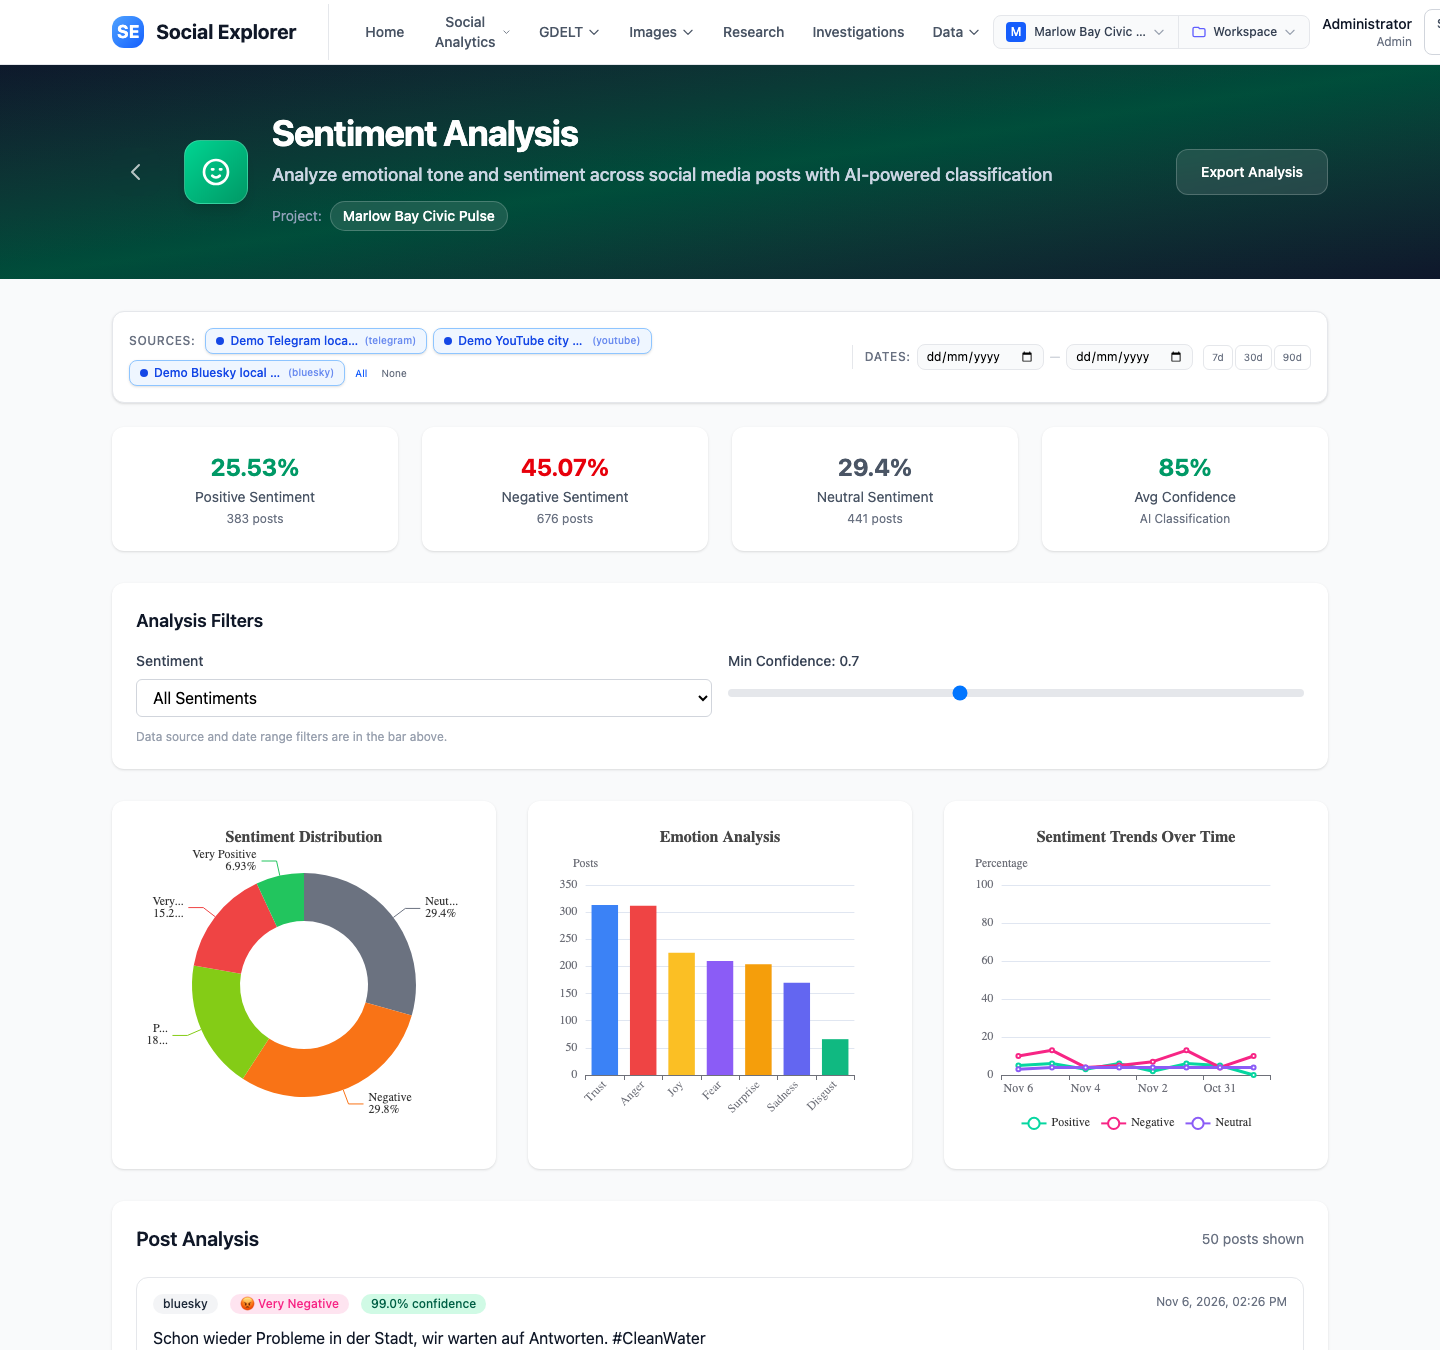
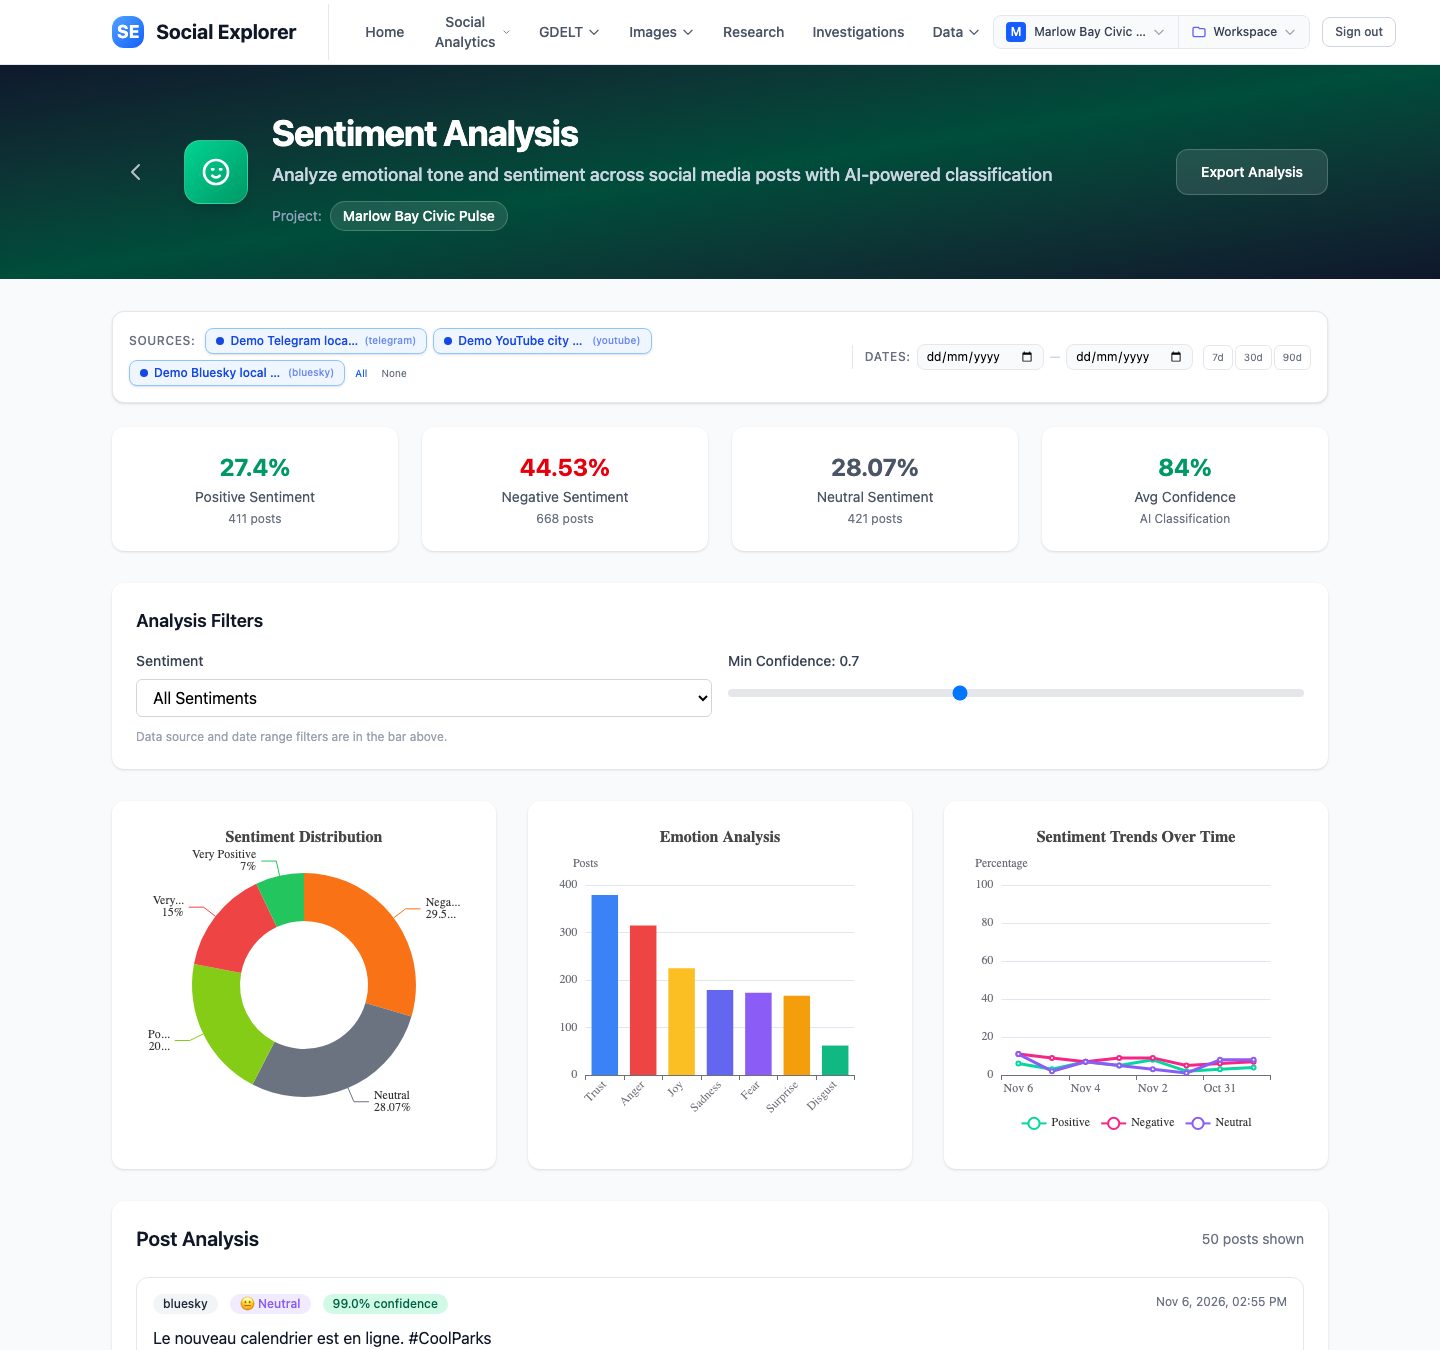
docs: add engagement, language and hashtag screenshots and mixed-language demo data
Refs #86 #63

diff --git a/ex-accell-ui/src/lib/server/demo/generateDemoData.ts b/ex-accell-ui/src/lib/server/demo/generateDemoData.ts
@@ -34,10 +34,18 @@ function topicWeight(topic: DemoTopic, day: number, days: number): number {
   return 1;
 }
 
+/** Most posts carry one hashtag; some carry two, so co-occurrence has something to show. */
+function hashtagSuffix(rng: Rng, topic: DemoTopic): string {
+  if (!rng.chance(0.6)) return '';
+  const first = rng.pick(topic.hashtags);
+  const others = topic.hashtags.filter((tag) => tag !== first);
+  return rng.chance(0.4) && others.length > 0 ? ` ${first} ${rng.pick(others)}` : ` ${first}`;
+}
+
 function writeContent(rng: Rng, topic: DemoTopic, sentiment: Sentiment, languageCode: string): string {
   const band = bandOf(sentiment);
   if (languageCode !== 'en') return `${rng.pick(FOREIGN_SENTENCES[languageCode][band])} ${rng.pick(topic.hashtags)}`;
-  const tags = rng.chance(0.6) ? ` ${rng.pick(topic.hashtags)}` : '';
+  const tags = hashtagSuffix(rng, topic);
   return `${rng.pick(topic.sentences[band])}${tags}`;
 }
 
@@ -68,6 +76,7 @@ function postTables(posts: PostDraft[], rng: Rng, collectedAt: Date): DemoTable[
   const languageRows: Cell[][] = [];
   const engagementRows: Cell[][] = [];
   const topicRows: Cell[][] = [];
+  const mixingRows: Cell[][] = [];
   const hashtagRows: Cell[][] = [];
 
   for (const post of posts) {
@@ -79,6 +88,9 @@ function postTables(posts: PostDraft[], rng: Rng, collectedAt: Date): DemoTable[
     emotionRows.push([post.id, post.id, emotion, round(30 + rng.next() * 65, 2), round(0.6 + rng.next() * 0.38, 3), post.createdAt]);
 
     languageRows.push([post.id, post.id, LANGUAGES[post.languageIndex].id, round(0.85 + rng.next() * 0.14, 3), 'demo-detector']);
+    if (post.languageIndex === 0 && rng.chance(0.06)) {
+      mixingRows.push([mixingRows.length + 1, post.id, LANGUAGES[0].id, LANGUAGES[rng.int(1, 3)].id, 'code-switching', round(0.7 + rng.next() * 0.2, 3), round(0.1 + rng.next() * 0.25, 3), rng.int(2, 3)]);
+    }
     topicRows.push([post.id, post.id, TOPICS.indexOf(post.topic) + 1, round(0.55 + rng.next() * 0.4, 4), true]);
 
     const typeId = rng.weighted(CONTENT_TYPES, post.source.contentWeights).id;
@@ -95,6 +107,7 @@ function postTables(posts: PostDraft[], rng: Rng, collectedAt: Date): DemoTable[
     { name: 'sentiment_classifications', columns: ['id', 'post_id', 'sentiment_category', 'confidence_score', 'analysis_model', 'classification_timestamp'], rows: sentimentRows },
     { name: 'emotion_analysis', columns: ['id', 'post_id', 'emotion', 'intensity_score', 'confidence', 'created_at'], rows: emotionRows },
     { name: 'language_detection', columns: ['id', 'post_id', 'language_id', 'confidence_score', 'detection_model'], rows: languageRows },
+    { name: 'language_mixing', columns: ['id', 'post_id', 'primary_language_id', 'secondary_language_id', 'mixing_type', 'primary_confidence', 'secondary_confidence', 'segment_count'], rows: mixingRows },
     { name: 'document_topics', columns: ['id', 'post_id', 'topic_id', 'probability', 'is_primary'], rows: topicRows },
     { name: 'post_engagement', columns: ['id', 'post_id', 'content_type_id', 'likes_count', 'comments_count', 'shares_count', 'saves_count', 'views_count', 'reach', 'impressions', 'engagement_rate', 'click_through_rate', 'video_completion_rate', 'recorded_at'], rows: engagementRows },
     { name: 'hashtag_engagement', columns: ['id', 'hashtag', 'post_id', 'engagement_boost', 'usage_count', 'avg_engagement_rate', 'impact_score'], rows: hashtagRows }
@@ -117,7 +130,7 @@ function engagementRow(rng: Rng, post: PostDraft, contentTypeId: number): Cell[]
 /** Insert order that satisfies foreign keys. */
 export const TABLE_ORDER = [
   'data_sources', 'crawlers', 'languages', 'content_types', 'topics', 'topic_keywords', 'topic_relationships', 'posts',
-  'sentiment_classifications', 'emotion_analysis', 'language_detection', 'document_topics', 'post_engagement',
+  'sentiment_classifications', 'emotion_analysis', 'language_detection', 'language_mixing', 'document_topics', 'post_engagement',
   'hashtag_engagement', 'sentiment_temporal_trends', 'sentiment_keywords', 'topic_trends', 'activity_logs',
   'projects', 'project_members', 'workspaces', 'workspace_data_sources', 'datasets', 'dataset_tags'
 ];

diff --git a/ex-accell-ui/docs-screenshots/capture.spec.ts b/ex-accell-ui/docs-screenshots/capture.spec.ts
@@ -18,7 +18,10 @@ const SHOTS: Shot[] = [
   { name: 'home', path: '/', fullPage: false },
   { name: 'projects', path: '/projects', fullPage: false },
   { name: 'sentiment-analysis', path: '/text-analytics/sentiment-analysis', fullPage: false, height: 1350 },
-  { name: 'topic-modeling', path: '/text-analytics/topic-modeling', fullPage: true }
+  { name: 'topic-modeling', path: '/text-analytics/topic-modeling', fullPage: true },
+  { name: 'engagement-analysis', path: '/text-analytics/engagement-analysis', fullPage: false, height: 1350 },
+  { name: 'language-detection', path: '/text-analytics/language-detection', fullPage: false, height: 1350 },
+  { name: 'hashtag-analysis', path: '/text-analytics/hashtag-analysis', fullPage: false, height: 1100 }
 ];
 
 const SETTLE_MS = 2000;

diff --git a/docs-site/guide/demo-data.md b/docs-site/guide/demo-data.md
@@ -69,12 +69,33 @@ table ranks them by post count and weight.
 
 ![Topic modeling dashboard](/screenshots/topic-modeling.png)
 
-## What the demo does not cover yet
+### Engagement analysis
+
+Under **Social Analytics → Engagement Analysis**, totals, average engagement rate and reach are
+computed from each post's likes, comments, shares and saves, with breakdowns by platform, content
+type and time of day.
+
+![Engagement analysis dashboard](/screenshots/engagement-analysis.png)
+
+### Language detection
+
+Under **Social Analytics → Language Detection**, see the languages found, how confident the detector
+was, and the share of posts that mix languages.
+
+![Language detection dashboard](/screenshots/language-detection.png)
+
+### Hashtag analysis
+
+Under **Social Analytics → Hashtag Analysis**, see the most used hashtags and which ones appear
+together.
+
+![Hashtag analysis dashboard](/screenshots/hashtag-analysis.png)
+
+## What the demo does not cover
 
 The demo fills the core analytics tables. Pages backed by optional pipelines (GDELT events, radio
-transcripts, image processing, the workflow builder) stay empty until you run those pipelines, and
-a few dashboards, such as Engagement and Language Detection, still read from older table layouts and
-do not fully reflect the demo data. These gaps are tracked in the issue tracker.
+transcripts, image processing, the workflow builder) stay empty until you run those pipelines. The
+language page has no geographic breakdown, because posts carry no location data.
 
 ## Regenerating the screenshots
 
